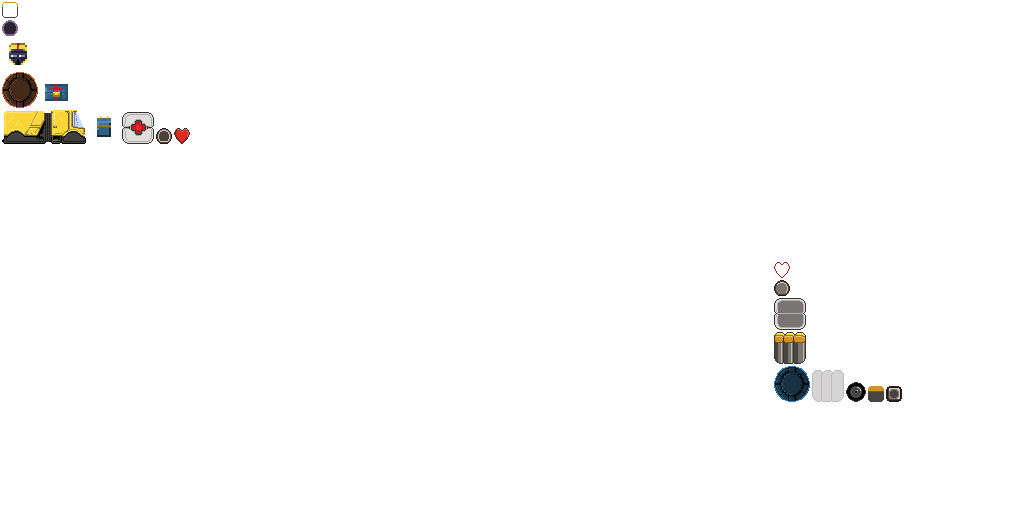
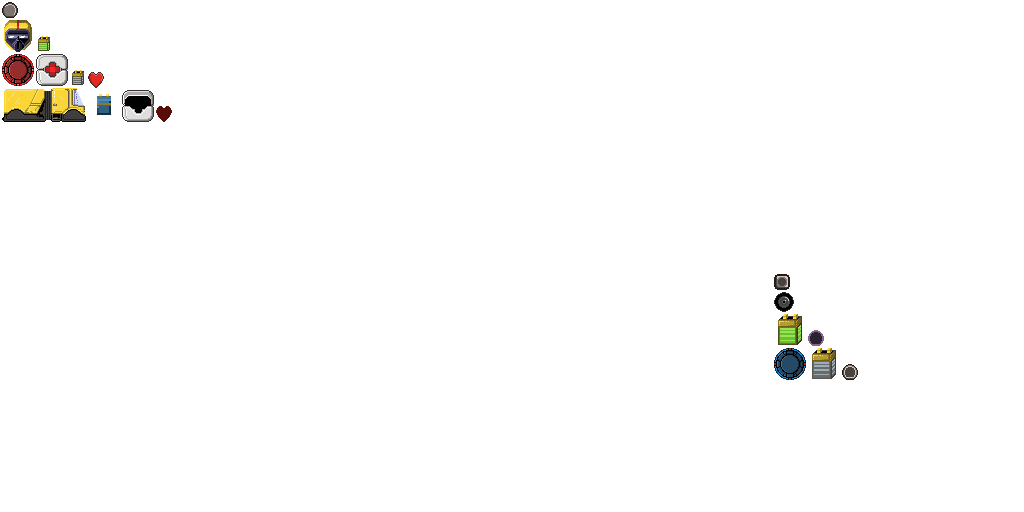
new sprites and fixes

Changed region(s): [[0.0, 0.0, 0.1875, 0.2812], [0.75, 0.5312, 0.9062, 0.7812]]

diff --git a/core/src/net/mgsx/dl11/model/WorldTile.java b/core/src/net/mgsx/dl11/model/WorldTile.java
@@ -54,6 +54,7 @@ public class WorldTile {
 	public boolean isFirstTile;
 	public boolean visited;
 	public String name;
+	private boolean wasOnBonus;
 	
 	
 	public WorldTile(GameState game) {
@@ -184,22 +185,30 @@ public class WorldTile {
 		if(!active) delta = 0; // XXX disable anims
 		
 		boolean playerFired = false;
+		boolean isOnBonus = false;
 		for(Entity e2 : entities){
 			if(e2 instanceof Drone){
 				playerFired |= ((Drone) e2).isFiringPlayer();
 			}
 			if(e2 instanceof Bonus){
 				Bonus b = (Bonus)e2;
-				if(hero.car == null && b.canBeAquired(game)){
+				if(hero.car == null){
 					if(hero.position.dst(e2.position) < 1){
-						if(b.aquire(game)){
+						if(b.canBeAquired(game) && b.aquire(game)){
 							Story.pickupBonus(game, b);
+						}else{
+							isOnBonus = true;
 						}
 					}
 				}
 			}
 		}
 		hero.fired = playerFired;
+		
+		if(isOnBonus && !wasOnBonus){
+			Assets.i.audio.playBonusDenied();
+		}
+		wasOnBonus = isOnBonus;
 		
 		this.hero.controlEnabled = active;
 		
@@ -384,6 +393,7 @@ public class WorldTile {
 		exiting = false;
 		entering = false;
 		active = false;
+		wasOnBonus = false;
 		
 		hero.car = null;
 		

diff --git a/core/src/net/mgsx/dl11/assets/Assets.java b/core/src/net/mgsx/dl11/assets/Assets.java
@@ -134,7 +134,7 @@ public class Assets {
 		return skin.getRegion("life-empty");
 	}
 	public TextureRegion getFuelMiniEmptyRegion() {
-		return skin.getRegion("fuel-mini-empty");
+		return skin.getRegion("fuel-open-mini");
 	}
 	
 	public TiledMap getMap(String name) {

diff --git a/core/src/net/mgsx/dl11/model/MedPack.java b/core/src/net/mgsx/dl11/model/MedPack.java
@@ -42,7 +42,6 @@ public class MedPack extends Bonus {
 			Assets.i.audio.playPickupMedpack();
 			return true;
 		}else{
-			Assets.i.audio.playBonusDenied();
 			return false;
 		}
 	}

diff --git a/core/src/net/mgsx/dl11/model/Fuel.java b/core/src/net/mgsx/dl11/model/Fuel.java
@@ -42,7 +42,6 @@ public class Fuel extends Bonus {
 			Assets.i.audio.playPickupFuel();
 			return true;
 		}else{
-			Assets.i.audio.playBonusDenied();
 			return false;
 		}
 	}
